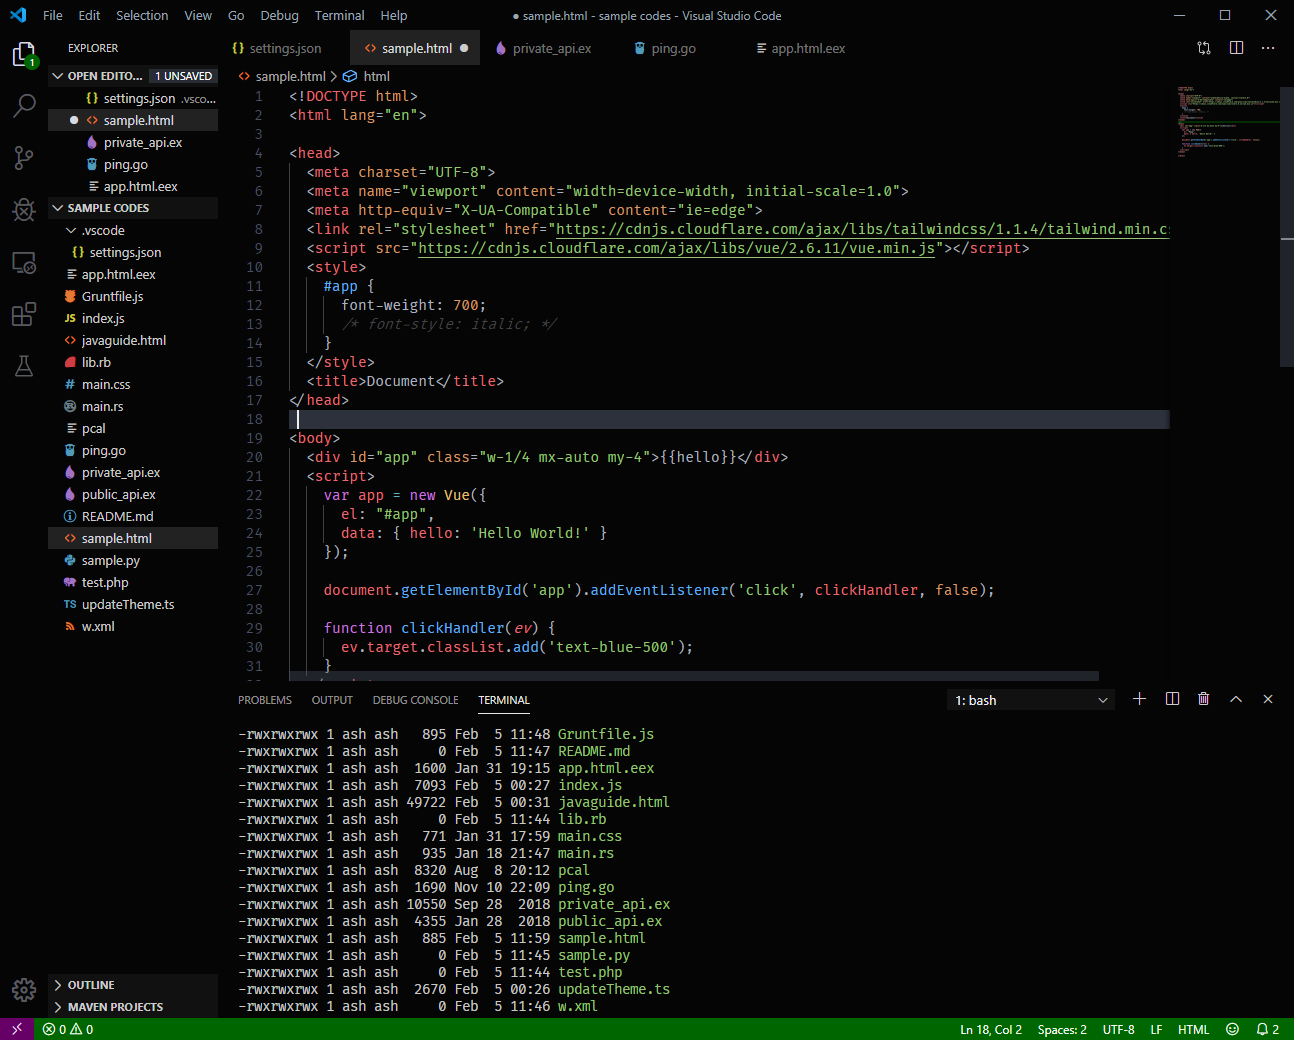
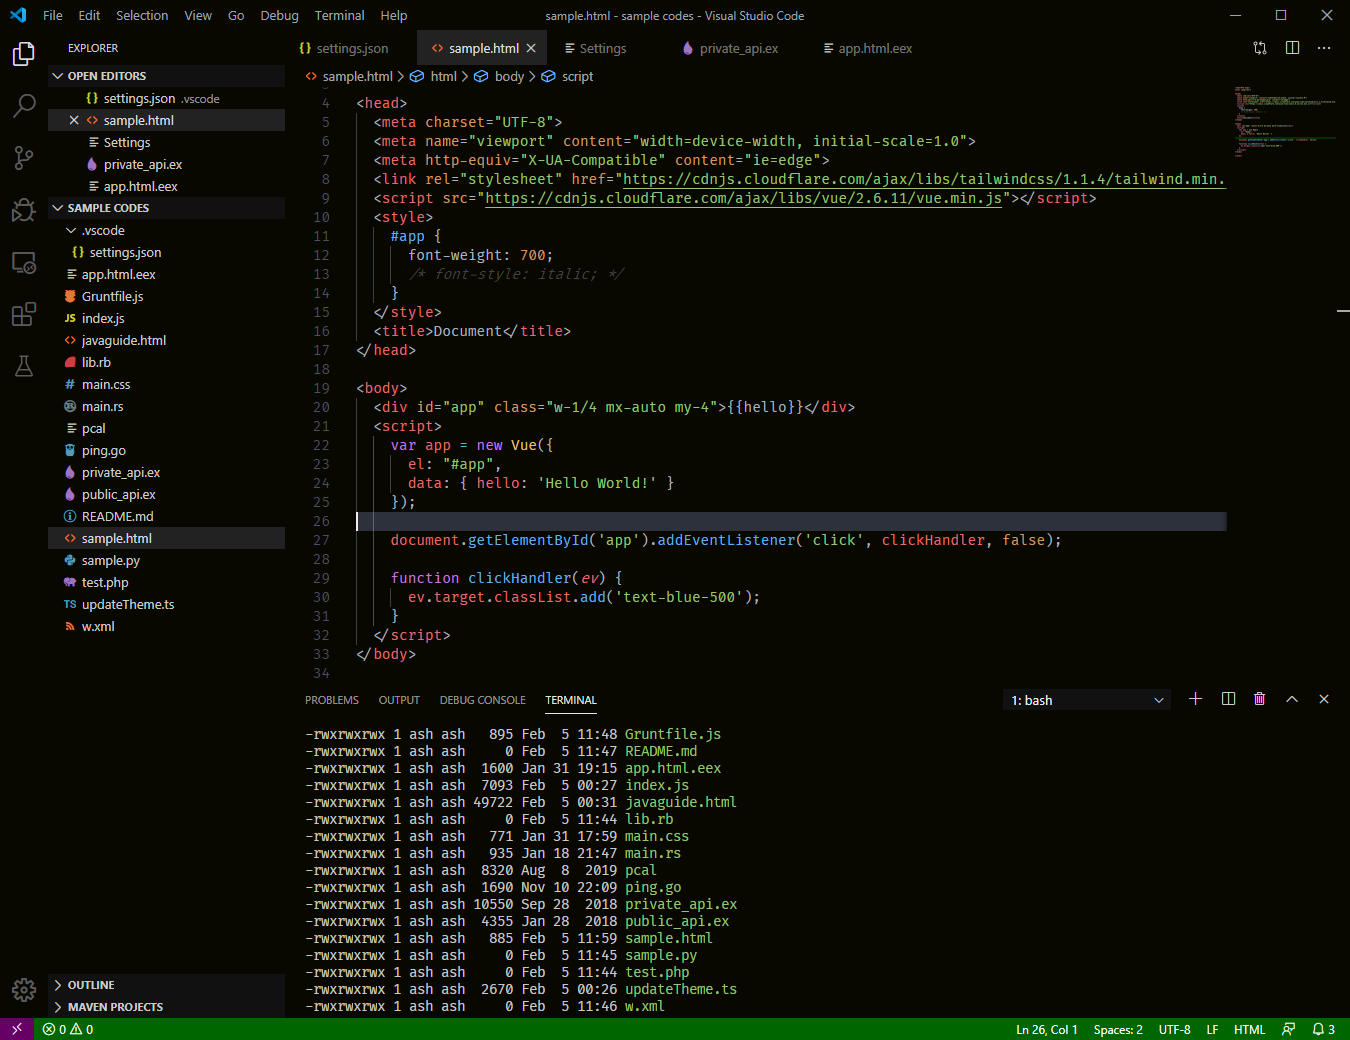
changed background colors

diff --git a/CHANGELOG.md b/CHANGELOG.md
@@ -1,5 +1,9 @@
 # Change Log
 
+## [0.3.0]
+- Slightly warmer background color
+- Different background for menu and editor widgets
+
 ## [0.2.0]
 - Colors for suggestion widget
 
